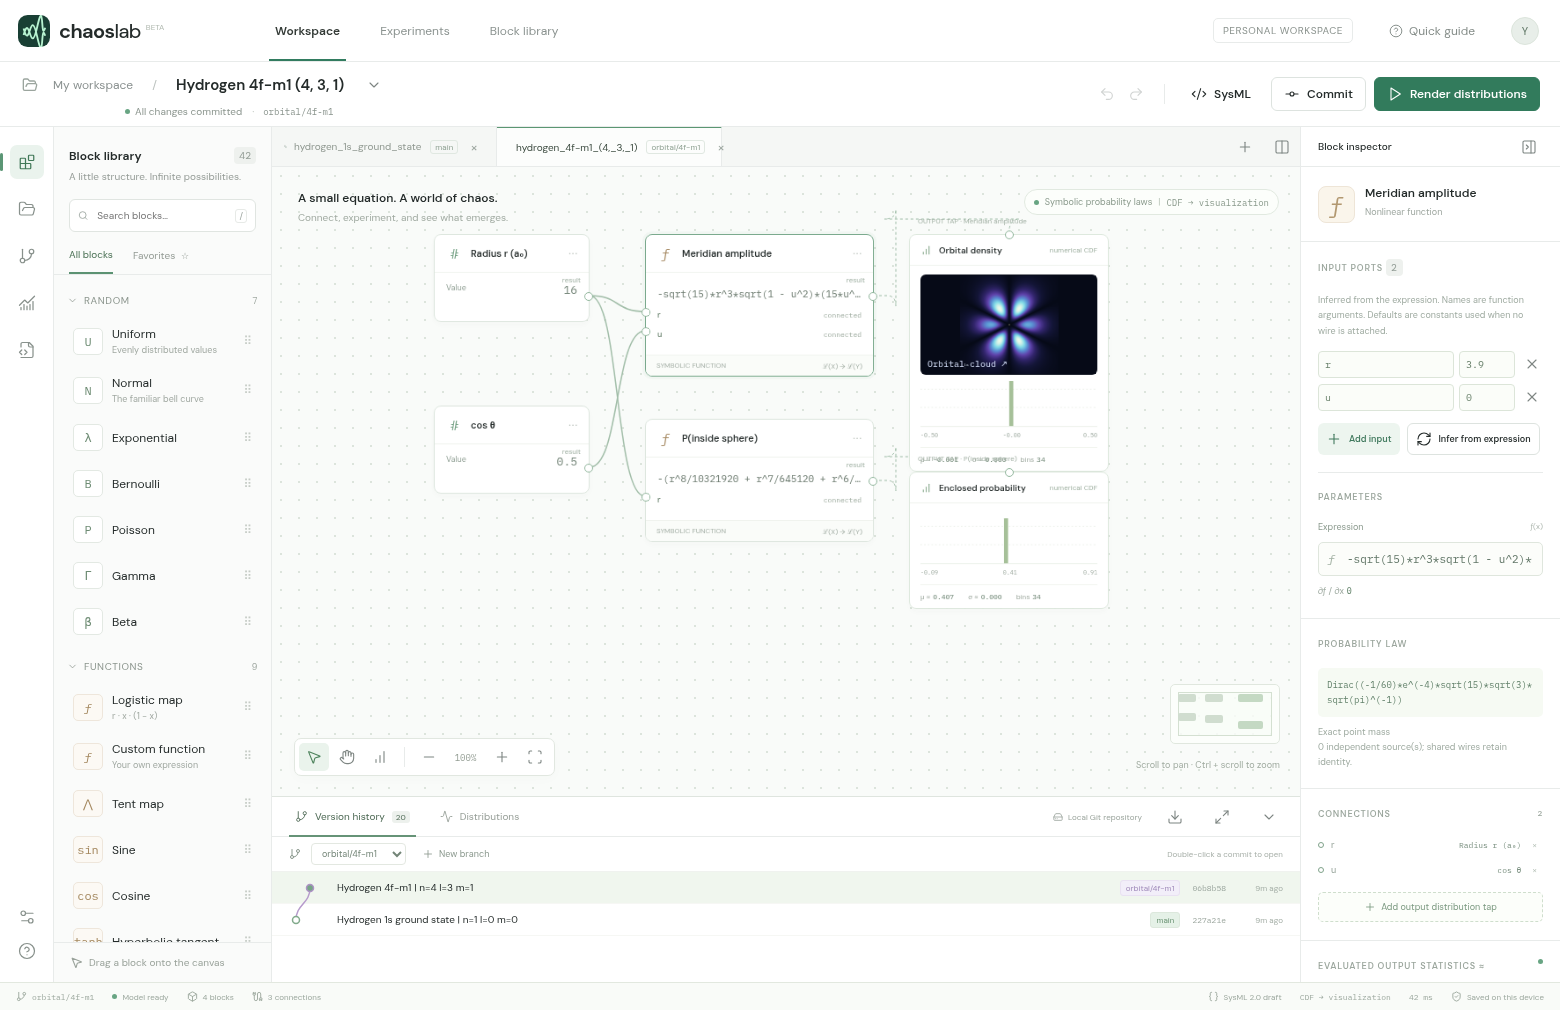
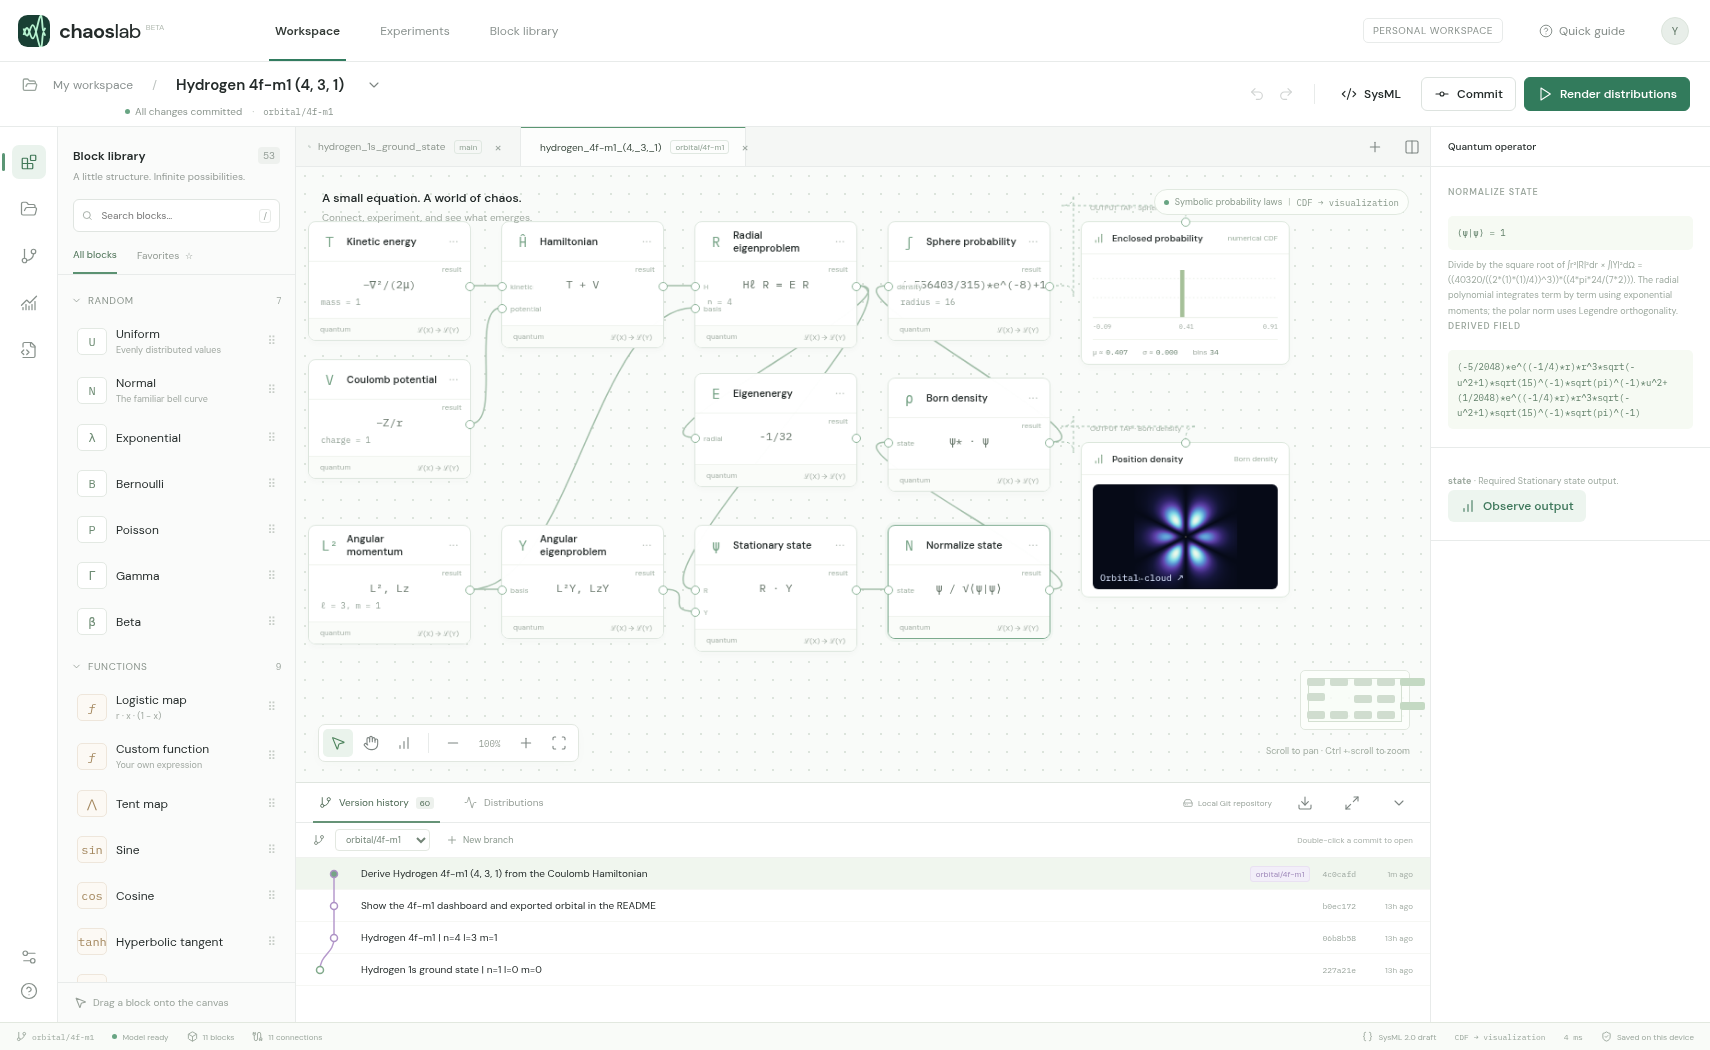
Show the derived state and operator graph for orbital/4f-m1

diff --git a/README.md b/README.md
@@ -4,6 +4,8 @@ Open **Version history** in Chaos Lab to explore the 20 hydrogen designs in this
 
 ## Hydrogen 4f (n = 4, ℓ = 3, m = 1)
 
+The connected Hamiltonian and eigenstate solvers give $E=-1/32$ Hartree for this state.
+
 ![Chaos Lab dashboard with the 4f model, m = 1, open in version history](dashboard.png)
 
 Radial nodes: 0. Polar nodes: 2. Plot half-width: 32 Bohr radii.
@@ -22,7 +24,7 @@ cd hydrogen_wavefunction
 python studio.py
 ```
 
-On Windows you can use `py studio.py`. On Linux you can use `python3 studio.py`. The first launch downloads the pinned Chaos Lab browser build. Double-click a commit to open it in a tab. Open another and use **Split view** to compare them. **Orbital cloud ↗** opens the spatial plots. The launcher reads the Git objects from your clone, including origin branches. Run `git fetch origin` and restart the launcher to load new remote branches.
+On Windows you can use `py studio.py`. On Linux you can use `python3 studio.py`. The first launch downloads the pinned Chaos Lab browser build. Double-click a commit to open it in a tab. Open another and use **Split view** to compare them. **Orbital cloud ↗** opens the spatial plots. The launcher reads the Git objects from your clone, including origin branches. For an existing clone, update the checked-out branch with `git pull --ff-only`, fetch the other branches with `git fetch origin`, and restart the launcher. Double-click the latest commit for the design you want to explore.
 
 To compare states with the same radial law, open `orbital/2p-m0` and `orbital/2p-m1`. At the same radius their enclosed-probability probes agree. The first slice is dark on the equatorial plane, while the second is dark along the polar axis.
 
@@ -32,7 +34,17 @@ To compare states with the same radial law, open `orbital/2p-m0` and `orbital/2p
 
 Branch names encode `(n, ℓ, m)`. For example, `orbital/3d-m1` is `(3,2,1)`. Each snapshot includes the editable graph, its compiled symbolic representation, and its SysML text. Each excited-state branch also contains a reference cross-section.
 
-Coordinates are in Bohr radii. These are normalized fixed-proton, nonrelativistic spatial eigenstates in the complex spherical-harmonic basis. For a fixed m the azimuthal phase is exp(i m φ), so probability density is axially symmetric. The graph evaluates the real meridian amplitude at φ = 0 using radius r and u = cos θ. Its square is probability per unit volume. The sphere probe integrates the radial Born law. The field tap sweeps the same amplitude expression for the x–z slice and its projected detections. Detections are drawn for display from a numerical grid of the final density including the r² volume factor. Brightness and plotting windows are scaled per orbital.
+## How the graph derives this orbital
+
+1. **Kinetic energy** and **Coulomb potential** supply the relative-coordinate operators in atomic units. Their wires feed **Hamiltonian**, which constructs $H=-\nabla^2/(2\mu)-Z/r$. The default is a fixed proton, $Z=\mu=1$.
+2. **Angular momentum** selects the joint eigenvalues of $L^2$ and $L_z$. **Radial eigenproblem** uses that angular eigenvalue in the centrifugal term. Regularity at the origin, decay at infinity, and radial-series termination give the polynomial and energy. **Angular eigenproblem** constructs the polar polynomial by Rodrigues differentiation and includes the phase $e^{im\phi}$.
+3. **Stationary state** multiplies the separated basis functions. **Normalize state** computes their norm with the spherical volume measure. **Born density** takes the squared modulus of the normalized state. **Sphere probability** integrates that density to the probe radius.
+4. Select a block to inspect its equation and derivation. Change **Nuclear charge** from 1 to 2. The energy becomes four times more negative and the orbital contracts by a factor of two. The plot rescales with the orbital, so use its Bohr-radius scale bar to see the change.
+
+The central slice evaluates the final density in the x–z plane. Projected detections sample the final density on a finite radial and angular grid with the spherical volume factor. Coordinates use Bohr radii and energy uses Hartree.
+
+The branch stores the operator graph in `model.json`, its derived fields and scalar laws in `model.symbolic.json`, and the block connections in `model.sysml`. With SymPy installed, run `python tools/verify_state.py` in a checkout of this branch to check the eigenvalue equations, normalization, radial reference solution and sphere integral.
+
 
 | n | ℓ | m | Design branch |
 |---|---|---|---|
